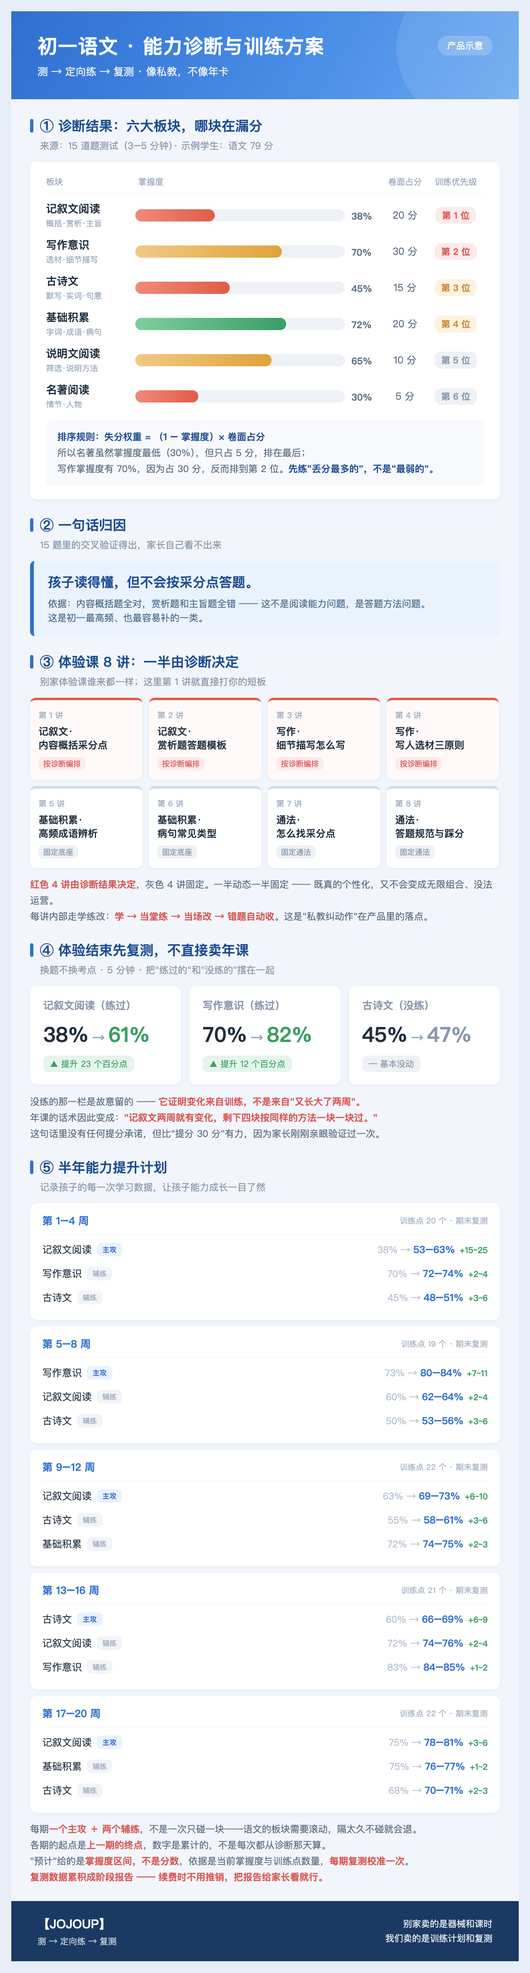
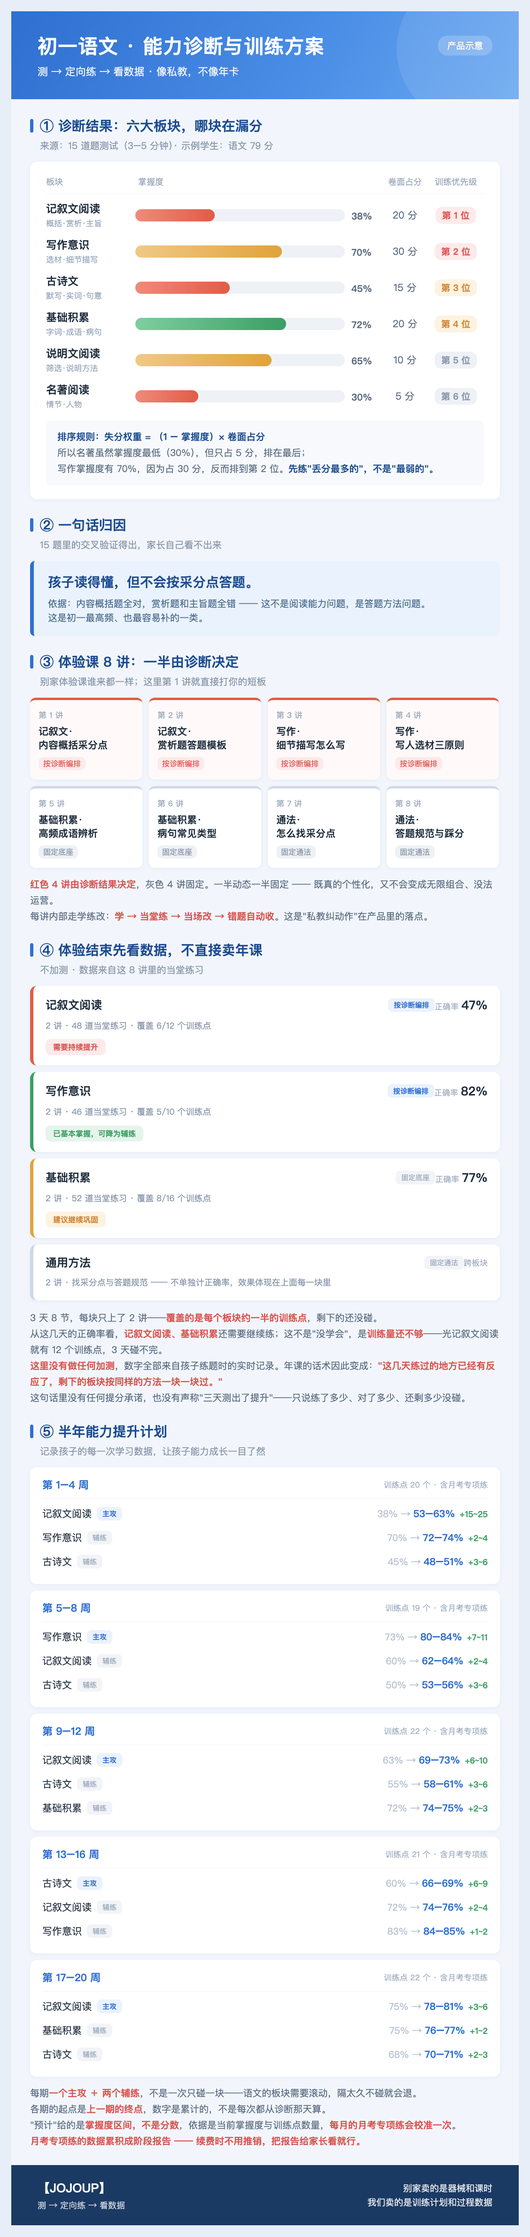
复测口径统一为「月考专项练」
- 明确掌握度来源是产品里本来就有的月考专项练，不额外加测
- 月报学习过程表新增「月考专项练 · 测量点」独立行，综合正确率按卷面占分加权
- 半年计划周期标注改为「含月考专项练」，校准口径同步
- 产品示意图第④节重写为体验小结，补齐上一轮与 H5 的不一致
- 教研落地包新增「测量点：月考专项练，不是额外加测」一节，B卷与40周节点改名
- 跨行业拆解文档更新链路摘要

diff --git a/product.html b/product.html
@@ -49,7 +49,19 @@ body{font-family:"PingFang SC","Hiragino Sans GB","Microsoft YaHei",sans-serif;b
 .legend{margin-top:18px;font-size:20px;color:#5a6b80;line-height:1.7}
 .legend b{color:#d9534f}
 
-/* 复测 */
+/* 对比 */
+.ex{background:#fff;border-radius:14px;padding:22px 26px;margin-bottom:14px;box-shadow:0 2px 10px rgba(30,70,140,.06);border-left:7px solid #cfd8e5}
+.ex.need{border-left-color:#e05c46}.ex.mid{border-left-color:#e0a33a}.ex.good{border-left-color:#3a9e63}
+.ex .eh{display:flex;align-items:center;margin-bottom:11px}
+.ex .eh b{font-size:24px;color:#1f2d3d;flex:1}
+.ex .eh i{font-style:normal;font-size:15px;padding:4px 12px;border-radius:9px;margin-left:12px}
+.i-m{background:#eaf2fd;color:#2f6fd0;font-weight:800}.i-s{background:#f2f4f7;color:#9aa8bc}
+.ex .acc{font-size:17px;color:#a3b0c2;white-space:nowrap}
+.ex .acc b{font-size:26px;font-weight:800;margin-left:6px}
+.a-need{color:#d9534f}.a-mid{color:#d1873a}.a-good{color:#3a9e63}
+.ex .vol{font-size:18px;color:#8a97ab;line-height:1.7}
+.ex .cc{display:inline-block;font-size:16px;padding:6px 16px;border-radius:10px;margin-top:13px;font-weight:800}
+.c-need{background:#fdeaea;color:#d9534f}.c-mid{background:#fdf3e0;color:#d1873a}.c-good{background:#e6f5ec;color:#3a9e63}
 .cmp{display:flex;gap:18px}
 .cmp>div{flex:1;background:#fff;border-radius:14px;padding:26px 28px;box-shadow:0 2px 10px rgba(30,70,140,.06)}
 .cmp h4{font-size:22px;color:#8a97ab;font-weight:600;margin-bottom:16px}
@@ -90,7 +102,7 @@ body{font-family:"PingFang SC","Hiragino Sans GB","Microsoft YaHei",sans-serif;b
 
 <div class="hd"><div class="mark">产品示意</div>
 <h1>初一语文 · 能力诊断与训练方案</h1>
-<p>测 → 定向练 → 复测 · 像私教，不像年卡</p></div>
+<p>测 → 定向练 → 看数据 · 像私教，不像年卡</p></div>
 
 <div class="body">
 
@@ -156,33 +168,27 @@ body{font-family:"PingFang SC","Hiragino Sans GB","Microsoft YaHei",sans-serif;b
 </div>
 
 <div class="sec">
-  <div class="sec-t"><i></i>④ 体验结束先复测，不直接卖年课</div>
-  <div class="sec-s">换题不换考点 · 5 分钟 · 把"练过的"和"没练的"摆在一起</div>
-  <div class="cmp">
-    <div><h4>记叙文阅读（练过）</h4><div class="big">38%<i>→</i><span class="up">61%</span></div><div class="tag t-up">▲ 提升 23 个百分点</div></div>
-    <div><h4>写作意识（练过）</h4><div class="big">70%<i>→</i><span class="up">82%</span></div><div class="tag t-up">▲ 提升 12 个百分点</div></div>
-    <div><h4>古诗文（没练）</h4><div class="big">45%<i>→</i><span class="flat">47%</span></div><div class="tag t-flat">— 基本没动</div></div>
-  </div>
-  <div class="legend" style="margin-top:20px">没练的那一栏是故意留的 —— <b>它证明变化来自训练，不是来自"又长大了两周"。</b><br>
-  年课的话术因此变成：<b>"记叙文两周就有变化，剩下四块按同样的方法一块一块过。"</b><br>
-  这句话里没有任何提分承诺，但比"提分 30 分"有力，因为家长刚刚亲眼验证过一次。</div>
+  <div class="sec-t"><i></i>④ 体验结束先看数据，不直接卖年课</div>
+  <div class="sec-s">不加测 · 数据来自这 8 讲里的当堂练习</div>
+  <div class="ex need"><div class="eh"><b>记叙文阅读</b><i class="i-m">按诊断编排</i><span class="acc">正确率<b class="a-need">47%</b></span></div><div class="vol">2 讲 · 48 道当堂练习 · 覆盖 6/12 个训练点</div><div class="cc c-need">需要持续提升</div></div><div class="ex good"><div class="eh"><b>写作意识</b><i class="i-m">按诊断编排</i><span class="acc">正确率<b class="a-good">82%</b></span></div><div class="vol">2 讲 · 46 道当堂练习 · 覆盖 5/10 个训练点</div><div class="cc c-good">已基本掌握，可降为辅练</div></div><div class="ex mid"><div class="eh"><b>基础积累</b><i class="i-s">固定底座</i><span class="acc">正确率<b class="a-mid">77%</b></span></div><div class="vol">2 讲 · 52 道当堂练习 · 覆盖 8/16 个训练点</div><div class="cc c-mid">建议继续巩固</div></div><div class="ex"><div class="eh"><b>通用方法</b><i class="i-s">固定通法</i><span class="acc">跨板块</span></div><div class="vol">2 讲 · 找采分点与答题规范 —— 不单独计正确率，效果体现在上面每一块里</div></div>
+  <div class="legend" style="margin-top:20px">3 天 8 节，每块只上了 2 讲——<b>覆盖的是每个板块约一半的训练点</b>，剩下的还没碰。<br>从这几天的正确率看，<b>记叙文阅读、基础积累</b>还需要继续练；这不是"没学会"，是<b>训练量还不够</b>——光记叙文阅读就有 12 个训练点，3 天碰不完。<br><b>这里没有做任何加测</b>，数字全部来自孩子练题时的实时记录。年课的话术因此变成：<b>"这几天练过的地方已经有反应了，剩下的板块按同样的方法一块一块过。"</b><br>这句话里没有任何提分承诺，也没有声称"三天测出了提升"——只说练了多少、对了多少、还剩多少没碰。</div>
 </div>
 
 <div class="sec">
   <div class="sec-t"><i></i>⑤ 半年能力提升计划</div>
   <div class="sec-s">记录孩子的每一次学习数据，让孩子能力成长一目了然</div>
-  <div class="per"><div class="ph"><b>第 1–4 周</b><span>训练点 20 个 · 期末复测</span></div><div class="prow"><div class="nm">记叙文阅读<span class="rl rl-m">主攻</span></div><div class="vv">38% → <b>53–63%</b><i>+15~25</i></div></div><div class="prow"><div class="nm">写作意识<span class="rl rl-s">辅练</span></div><div class="vv">70% → <b>72–74%</b><i>+2~4</i></div></div><div class="prow"><div class="nm">古诗文<span class="rl rl-s">辅练</span></div><div class="vv">45% → <b>48–51%</b><i>+3~6</i></div></div></div>
-  <div class="per"><div class="ph"><b>第 5–8 周</b><span>训练点 19 个 · 期末复测</span></div><div class="prow"><div class="nm">写作意识<span class="rl rl-m">主攻</span></div><div class="vv">73% → <b>80–84%</b><i>+7~11</i></div></div><div class="prow"><div class="nm">记叙文阅读<span class="rl rl-s">辅练</span></div><div class="vv">60% → <b>62–64%</b><i>+2~4</i></div></div><div class="prow"><div class="nm">古诗文<span class="rl rl-s">辅练</span></div><div class="vv">50% → <b>53–56%</b><i>+3~6</i></div></div></div>
-  <div class="per"><div class="ph"><b>第 9–12 周</b><span>训练点 22 个 · 期末复测</span></div><div class="prow"><div class="nm">记叙文阅读<span class="rl rl-m">主攻</span></div><div class="vv">63% → <b>69–73%</b><i>+6~10</i></div></div><div class="prow"><div class="nm">古诗文<span class="rl rl-s">辅练</span></div><div class="vv">55% → <b>58–61%</b><i>+3~6</i></div></div><div class="prow"><div class="nm">基础积累<span class="rl rl-s">辅练</span></div><div class="vv">72% → <b>74–75%</b><i>+2~3</i></div></div></div>
-  <div class="per"><div class="ph"><b>第 13–16 周</b><span>训练点 21 个 · 期末复测</span></div><div class="prow"><div class="nm">古诗文<span class="rl rl-m">主攻</span></div><div class="vv">60% → <b>66–69%</b><i>+6~9</i></div></div><div class="prow"><div class="nm">记叙文阅读<span class="rl rl-s">辅练</span></div><div class="vv">72% → <b>74–76%</b><i>+2~4</i></div></div><div class="prow"><div class="nm">写作意识<span class="rl rl-s">辅练</span></div><div class="vv">83% → <b>84–85%</b><i>+1~2</i></div></div></div>
-  <div class="per"><div class="ph"><b>第 17–20 周</b><span>训练点 22 个 · 期末复测</span></div><div class="prow"><div class="nm">记叙文阅读<span class="rl rl-m">主攻</span></div><div class="vv">75% → <b>78–81%</b><i>+3~6</i></div></div><div class="prow"><div class="nm">基础积累<span class="rl rl-s">辅练</span></div><div class="vv">75% → <b>76–77%</b><i>+1~2</i></div></div><div class="prow"><div class="nm">古诗文<span class="rl rl-s">辅练</span></div><div class="vv">68% → <b>70–71%</b><i>+2~3</i></div></div></div>
-  <div class="legend" style="margin-top:18px">每期<b>一个主攻 ＋ 两个辅练</b>，不是一次只碰一块——语文的板块需要滚动，隔太久不碰就会退。<br>各期的起点是<b>上一期的终点</b>，数字是累计的，不是每次都从诊断那天算。<br>"预计"给的是<b>掌握度区间，不是分数</b>，依据是当前掌握度与训练点数量，<b>每期复测校准一次</b>。<br>
-  <b>复测数据累积成阶段报告 —— 续费时不用推销，把报告给家长看就行。</b></div>
+  <div class="per"><div class="ph"><b>第 1–4 周</b><span>训练点 20 个 · 含月考专项练</span></div><div class="prow"><div class="nm">记叙文阅读<span class="rl rl-m">主攻</span></div><div class="vv">38% → <b>53–63%</b><i>+15~25</i></div></div><div class="prow"><div class="nm">写作意识<span class="rl rl-s">辅练</span></div><div class="vv">70% → <b>72–74%</b><i>+2~4</i></div></div><div class="prow"><div class="nm">古诗文<span class="rl rl-s">辅练</span></div><div class="vv">45% → <b>48–51%</b><i>+3~6</i></div></div></div>
+  <div class="per"><div class="ph"><b>第 5–8 周</b><span>训练点 19 个 · 含月考专项练</span></div><div class="prow"><div class="nm">写作意识<span class="rl rl-m">主攻</span></div><div class="vv">73% → <b>80–84%</b><i>+7~11</i></div></div><div class="prow"><div class="nm">记叙文阅读<span class="rl rl-s">辅练</span></div><div class="vv">60% → <b>62–64%</b><i>+2~4</i></div></div><div class="prow"><div class="nm">古诗文<span class="rl rl-s">辅练</span></div><div class="vv">50% → <b>53–56%</b><i>+3~6</i></div></div></div>
+  <div class="per"><div class="ph"><b>第 9–12 周</b><span>训练点 22 个 · 含月考专项练</span></div><div class="prow"><div class="nm">记叙文阅读<span class="rl rl-m">主攻</span></div><div class="vv">63% → <b>69–73%</b><i>+6~10</i></div></div><div class="prow"><div class="nm">古诗文<span class="rl rl-s">辅练</span></div><div class="vv">55% → <b>58–61%</b><i>+3~6</i></div></div><div class="prow"><div class="nm">基础积累<span class="rl rl-s">辅练</span></div><div class="vv">72% → <b>74–75%</b><i>+2~3</i></div></div></div>
+  <div class="per"><div class="ph"><b>第 13–16 周</b><span>训练点 21 个 · 含月考专项练</span></div><div class="prow"><div class="nm">古诗文<span class="rl rl-m">主攻</span></div><div class="vv">60% → <b>66–69%</b><i>+6~9</i></div></div><div class="prow"><div class="nm">记叙文阅读<span class="rl rl-s">辅练</span></div><div class="vv">72% → <b>74–76%</b><i>+2~4</i></div></div><div class="prow"><div class="nm">写作意识<span class="rl rl-s">辅练</span></div><div class="vv">83% → <b>84–85%</b><i>+1~2</i></div></div></div>
+  <div class="per"><div class="ph"><b>第 17–20 周</b><span>训练点 22 个 · 含月考专项练</span></div><div class="prow"><div class="nm">记叙文阅读<span class="rl rl-m">主攻</span></div><div class="vv">75% → <b>78–81%</b><i>+3~6</i></div></div><div class="prow"><div class="nm">基础积累<span class="rl rl-s">辅练</span></div><div class="vv">75% → <b>76–77%</b><i>+1~2</i></div></div><div class="prow"><div class="nm">古诗文<span class="rl rl-s">辅练</span></div><div class="vv">68% → <b>70–71%</b><i>+2~3</i></div></div></div>
+  <div class="legend" style="margin-top:18px">每期<b>一个主攻 ＋ 两个辅练</b>，不是一次只碰一块——语文的板块需要滚动，隔太久不碰就会退。<br>各期的起点是<b>上一期的终点</b>，数字是累计的，不是每次都从诊断那天算。<br>"预计"给的是<b>掌握度区间，不是分数</b>，依据是当前掌握度与训练点数量，<b>每月的月考专项练会校准一次</b>。<br>
+  <b>月考专项练的数据累积成阶段报告 —— 续费时不用推销，把报告给家长看就行。</b></div>
 </div>
 
 </div>
 
-<div class="ft"><div><b>【JOJOUP】</b><p>测 → 定向练 → 复测</p></div>
-<div class="r">别家卖的是器械和课时<br>我们卖的是训练计划和复测</div></div>
+<div class="ft"><div><b>【JOJOUP】</b><p>测 → 定向练 → 看数据</p></div>
+<div class="r">别家卖的是器械和课时<br>我们卖的是训练计划和过程数据</div></div>
 
 </div></body></html>

diff --git a/产品示意_初一语文.html b/产品示意_初一语文.html
@@ -49,7 +49,19 @@ body{font-family:"PingFang SC","Hiragino Sans GB","Microsoft YaHei",sans-serif;b
 .legend{margin-top:18px;font-size:20px;color:#5a6b80;line-height:1.7}
 .legend b{color:#d9534f}
 
-/* 复测 */
+/* 对比 */
+.ex{background:#fff;border-radius:14px;padding:22px 26px;margin-bottom:14px;box-shadow:0 2px 10px rgba(30,70,140,.06);border-left:7px solid #cfd8e5}
+.ex.need{border-left-color:#e05c46}.ex.mid{border-left-color:#e0a33a}.ex.good{border-left-color:#3a9e63}
+.ex .eh{display:flex;align-items:center;margin-bottom:11px}
+.ex .eh b{font-size:24px;color:#1f2d3d;flex:1}
+.ex .eh i{font-style:normal;font-size:15px;padding:4px 12px;border-radius:9px;margin-left:12px}
+.i-m{background:#eaf2fd;color:#2f6fd0;font-weight:800}.i-s{background:#f2f4f7;color:#9aa8bc}
+.ex .acc{font-size:17px;color:#a3b0c2;white-space:nowrap}
+.ex .acc b{font-size:26px;font-weight:800;margin-left:6px}
+.a-need{color:#d9534f}.a-mid{color:#d1873a}.a-good{color:#3a9e63}
+.ex .vol{font-size:18px;color:#8a97ab;line-height:1.7}
+.ex .cc{display:inline-block;font-size:16px;padding:6px 16px;border-radius:10px;margin-top:13px;font-weight:800}
+.c-need{background:#fdeaea;color:#d9534f}.c-mid{background:#fdf3e0;color:#d1873a}.c-good{background:#e6f5ec;color:#3a9e63}
 .cmp{display:flex;gap:18px}
 .cmp>div{flex:1;background:#fff;border-radius:14px;padding:26px 28px;box-shadow:0 2px 10px rgba(30,70,140,.06)}
 .cmp h4{font-size:22px;color:#8a97ab;font-weight:600;margin-bottom:16px}
@@ -90,7 +102,7 @@ body{font-family:"PingFang SC","Hiragino Sans GB","Microsoft YaHei",sans-serif;b
 
 <div class="hd"><div class="mark">产品示意</div>
 <h1>初一语文 · 能力诊断与训练方案</h1>
-<p>测 → 定向练 → 复测 · 像私教，不像年卡</p></div>
+<p>测 → 定向练 → 看数据 · 像私教，不像年卡</p></div>
 
 <div class="body">
 
@@ -156,33 +168,27 @@ body{font-family:"PingFang SC","Hiragino Sans GB","Microsoft YaHei",sans-serif;b
 </div>
 
 <div class="sec">
-  <div class="sec-t"><i></i>④ 体验结束先复测，不直接卖年课</div>
-  <div class="sec-s">换题不换考点 · 5 分钟 · 把"练过的"和"没练的"摆在一起</div>
-  <div class="cmp">
-    <div><h4>记叙文阅读（练过）</h4><div class="big">38%<i>→</i><span class="up">61%</span></div><div class="tag t-up">▲ 提升 23 个百分点</div></div>
-    <div><h4>写作意识（练过）</h4><div class="big">70%<i>→</i><span class="up">82%</span></div><div class="tag t-up">▲ 提升 12 个百分点</div></div>
-    <div><h4>古诗文（没练）</h4><div class="big">45%<i>→</i><span class="flat">47%</span></div><div class="tag t-flat">— 基本没动</div></div>
-  </div>
-  <div class="legend" style="margin-top:20px">没练的那一栏是故意留的 —— <b>它证明变化来自训练，不是来自"又长大了两周"。</b><br>
-  年课的话术因此变成：<b>"记叙文两周就有变化，剩下四块按同样的方法一块一块过。"</b><br>
-  这句话里没有任何提分承诺，但比"提分 30 分"有力，因为家长刚刚亲眼验证过一次。</div>
+  <div class="sec-t"><i></i>④ 体验结束先看数据，不直接卖年课</div>
+  <div class="sec-s">不加测 · 数据来自这 8 讲里的当堂练习</div>
+  <div class="ex need"><div class="eh"><b>记叙文阅读</b><i class="i-m">按诊断编排</i><span class="acc">正确率<b class="a-need">47%</b></span></div><div class="vol">2 讲 · 48 道当堂练习 · 覆盖 6/12 个训练点</div><div class="cc c-need">需要持续提升</div></div><div class="ex good"><div class="eh"><b>写作意识</b><i class="i-m">按诊断编排</i><span class="acc">正确率<b class="a-good">82%</b></span></div><div class="vol">2 讲 · 46 道当堂练习 · 覆盖 5/10 个训练点</div><div class="cc c-good">已基本掌握，可降为辅练</div></div><div class="ex mid"><div class="eh"><b>基础积累</b><i class="i-s">固定底座</i><span class="acc">正确率<b class="a-mid">77%</b></span></div><div class="vol">2 讲 · 52 道当堂练习 · 覆盖 8/16 个训练点</div><div class="cc c-mid">建议继续巩固</div></div><div class="ex"><div class="eh"><b>通用方法</b><i class="i-s">固定通法</i><span class="acc">跨板块</span></div><div class="vol">2 讲 · 找采分点与答题规范 —— 不单独计正确率，效果体现在上面每一块里</div></div>
+  <div class="legend" style="margin-top:20px">3 天 8 节，每块只上了 2 讲——<b>覆盖的是每个板块约一半的训练点</b>，剩下的还没碰。<br>从这几天的正确率看，<b>记叙文阅读、基础积累</b>还需要继续练；这不是"没学会"，是<b>训练量还不够</b>——光记叙文阅读就有 12 个训练点，3 天碰不完。<br><b>这里没有做任何加测</b>，数字全部来自孩子练题时的实时记录。年课的话术因此变成：<b>"这几天练过的地方已经有反应了，剩下的板块按同样的方法一块一块过。"</b><br>这句话里没有任何提分承诺，也没有声称"三天测出了提升"——只说练了多少、对了多少、还剩多少没碰。</div>
 </div>
 
 <div class="sec">
   <div class="sec-t"><i></i>⑤ 半年能力提升计划</div>
   <div class="sec-s">记录孩子的每一次学习数据，让孩子能力成长一目了然</div>
-  <div class="per"><div class="ph"><b>第 1–4 周</b><span>训练点 20 个 · 期末复测</span></div><div class="prow"><div class="nm">记叙文阅读<span class="rl rl-m">主攻</span></div><div class="vv">38% → <b>53–63%</b><i>+15~25</i></div></div><div class="prow"><div class="nm">写作意识<span class="rl rl-s">辅练</span></div><div class="vv">70% → <b>72–74%</b><i>+2~4</i></div></div><div class="prow"><div class="nm">古诗文<span class="rl rl-s">辅练</span></div><div class="vv">45% → <b>48–51%</b><i>+3~6</i></div></div></div>
-  <div class="per"><div class="ph"><b>第 5–8 周</b><span>训练点 19 个 · 期末复测</span></div><div class="prow"><div class="nm">写作意识<span class="rl rl-m">主攻</span></div><div class="vv">73% → <b>80–84%</b><i>+7~11</i></div></div><div class="prow"><div class="nm">记叙文阅读<span class="rl rl-s">辅练</span></div><div class="vv">60% → <b>62–64%</b><i>+2~4</i></div></div><div class="prow"><div class="nm">古诗文<span class="rl rl-s">辅练</span></div><div class="vv">50% → <b>53–56%</b><i>+3~6</i></div></div></div>
-  <div class="per"><div class="ph"><b>第 9–12 周</b><span>训练点 22 个 · 期末复测</span></div><div class="prow"><div class="nm">记叙文阅读<span class="rl rl-m">主攻</span></div><div class="vv">63% → <b>69–73%</b><i>+6~10</i></div></div><div class="prow"><div class="nm">古诗文<span class="rl rl-s">辅练</span></div><div class="vv">55% → <b>58–61%</b><i>+3~6</i></div></div><div class="prow"><div class="nm">基础积累<span class="rl rl-s">辅练</span></div><div class="vv">72% → <b>74–75%</b><i>+2~3</i></div></div></div>
-  <div class="per"><div class="ph"><b>第 13–16 周</b><span>训练点 21 个 · 期末复测</span></div><div class="prow"><div class="nm">古诗文<span class="rl rl-m">主攻</span></div><div class="vv">60% → <b>66–69%</b><i>+6~9</i></div></div><div class="prow"><div class="nm">记叙文阅读<span class="rl rl-s">辅练</span></div><div class="vv">72% → <b>74–76%</b><i>+2~4</i></div></div><div class="prow"><div class="nm">写作意识<span class="rl rl-s">辅练</span></div><div class="vv">83% → <b>84–85%</b><i>+1~2</i></div></div></div>
-  <div class="per"><div class="ph"><b>第 17–20 周</b><span>训练点 22 个 · 期末复测</span></div><div class="prow"><div class="nm">记叙文阅读<span class="rl rl-m">主攻</span></div><div class="vv">75% → <b>78–81%</b><i>+3~6</i></div></div><div class="prow"><div class="nm">基础积累<span class="rl rl-s">辅练</span></div><div class="vv">75% → <b>76–77%</b><i>+1~2</i></div></div><div class="prow"><div class="nm">古诗文<span class="rl rl-s">辅练</span></div><div class="vv">68% → <b>70–71%</b><i>+2~3</i></div></div></div>
-  <div class="legend" style="margin-top:18px">每期<b>一个主攻 ＋ 两个辅练</b>，不是一次只碰一块——语文的板块需要滚动，隔太久不碰就会退。<br>各期的起点是<b>上一期的终点</b>，数字是累计的，不是每次都从诊断那天算。<br>"预计"给的是<b>掌握度区间，不是分数</b>，依据是当前掌握度与训练点数量，<b>每期复测校准一次</b>。<br>
-  <b>复测数据累积成阶段报告 —— 续费时不用推销，把报告给家长看就行。</b></div>
+  <div class="per"><div class="ph"><b>第 1–4 周</b><span>训练点 20 个 · 含月考专项练</span></div><div class="prow"><div class="nm">记叙文阅读<span class="rl rl-m">主攻</span></div><div class="vv">38% → <b>53–63%</b><i>+15~25</i></div></div><div class="prow"><div class="nm">写作意识<span class="rl rl-s">辅练</span></div><div class="vv">70% → <b>72–74%</b><i>+2~4</i></div></div><div class="prow"><div class="nm">古诗文<span class="rl rl-s">辅练</span></div><div class="vv">45% → <b>48–51%</b><i>+3~6</i></div></div></div>
+  <div class="per"><div class="ph"><b>第 5–8 周</b><span>训练点 19 个 · 含月考专项练</span></div><div class="prow"><div class="nm">写作意识<span class="rl rl-m">主攻</span></div><div class="vv">73% → <b>80–84%</b><i>+7~11</i></div></div><div class="prow"><div class="nm">记叙文阅读<span class="rl rl-s">辅练</span></div><div class="vv">60% → <b>62–64%</b><i>+2~4</i></div></div><div class="prow"><div class="nm">古诗文<span class="rl rl-s">辅练</span></div><div class="vv">50% → <b>53–56%</b><i>+3~6</i></div></div></div>
+  <div class="per"><div class="ph"><b>第 9–12 周</b><span>训练点 22 个 · 含月考专项练</span></div><div class="prow"><div class="nm">记叙文阅读<span class="rl rl-m">主攻</span></div><div class="vv">63% → <b>69–73%</b><i>+6~10</i></div></div><div class="prow"><div class="nm">古诗文<span class="rl rl-s">辅练</span></div><div class="vv">55% → <b>58–61%</b><i>+3~6</i></div></div><div class="prow"><div class="nm">基础积累<span class="rl rl-s">辅练</span></div><div class="vv">72% → <b>74–75%</b><i>+2~3</i></div></div></div>
+  <div class="per"><div class="ph"><b>第 13–16 周</b><span>训练点 21 个 · 含月考专项练</span></div><div class="prow"><div class="nm">古诗文<span class="rl rl-m">主攻</span></div><div class="vv">60% → <b>66–69%</b><i>+6~9</i></div></div><div class="prow"><div class="nm">记叙文阅读<span class="rl rl-s">辅练</span></div><div class="vv">72% → <b>74–76%</b><i>+2~4</i></div></div><div class="prow"><div class="nm">写作意识<span class="rl rl-s">辅练</span></div><div class="vv">83% → <b>84–85%</b><i>+1~2</i></div></div></div>
+  <div class="per"><div class="ph"><b>第 17–20 周</b><span>训练点 22 个 · 含月考专项练</span></div><div class="prow"><div class="nm">记叙文阅读<span class="rl rl-m">主攻</span></div><div class="vv">75% → <b>78–81%</b><i>+3~6</i></div></div><div class="prow"><div class="nm">基础积累<span class="rl rl-s">辅练</span></div><div class="vv">75% → <b>76–77%</b><i>+1~2</i></div></div><div class="prow"><div class="nm">古诗文<span class="rl rl-s">辅练</span></div><div class="vv">68% → <b>70–71%</b><i>+2~3</i></div></div></div>
+  <div class="legend" style="margin-top:18px">每期<b>一个主攻 ＋ 两个辅练</b>，不是一次只碰一块——语文的板块需要滚动，隔太久不碰就会退。<br>各期的起点是<b>上一期的终点</b>，数字是累计的，不是每次都从诊断那天算。<br>"预计"给的是<b>掌握度区间，不是分数</b>，依据是当前掌握度与训练点数量，<b>每月的月考专项练会校准一次</b>。<br>
+  <b>月考专项练的数据累积成阶段报告 —— 续费时不用推销，把报告给家长看就行。</b></div>
 </div>
 
 </div>
 
-<div class="ft"><div><b>【JOJOUP】</b><p>测 → 定向练 → 复测</p></div>
-<div class="r">别家卖的是器械和课时<br>我们卖的是训练计划和复测</div></div>
+<div class="ft"><div><b>【JOJOUP】</b><p>测 → 定向练 → 看数据</p></div>
+<div class="r">别家卖的是器械和课时<br>我们卖的是训练计划和过程数据</div></div>
 
 </div></body></html>

diff --git a/h5.html b/h5.html
@@ -245,6 +245,9 @@ body{font-family:"PingFang SC","Hiragino Sans GB","Microsoft YaHei",sans-serif;b
 .ptr span{font-size:11.5px;color:#5a6b80;text-align:center;flex-shrink:0}
 .ptr span.al{color:#d9534f;font-weight:800}
 .ptr span.ok{color:#3a9e63;font-weight:700}
+.ptr.exm{border-bottom:0;background:#f4f9ff;margin-top:6px;border-radius:9px;padding:10px 8px}
+.ptr.exm .c1{font-weight:800;color:#1b4b8f;padding-left:6px}
+.c1 i.i-e{background:#e6f5ec;color:#3a9e63;font-weight:800}
 .ptr.off .c1{color:#b3bfd0}
 .ptr.off span{color:#cbd5e2}
 .grid{display:flex;flex-wrap:wrap;gap:8px}
@@ -399,7 +402,7 @@ body{font-family:"PingFang SC","Hiragino Sans GB","Microsoft YaHei",sans-serif;b
 
     <div class="rcard"><div class="rt"><s></s>半年能力提升计划</div><div class="rs">记录孩子的每一次学习数据，让孩子能力成长一目了然</div>
       <div id="wkbox"></div>
-      <div class="frm">进入年课后，每个周期有终点、有阶段测。<b>什么时候能看到反馈是写明的</b>，不是"买了慢慢学"。<br>（体验的这 3 天<b>不加测</b>，数据直接取自当堂练习）</div>
+      <div class="frm">进入年课后，每个月产品里本来就有<b>一次月考专项练</b>——掌握度就从那次的作答里读出来，<b>不额外加测、不多占时间</b>。<br>什么时候能看到反馈是写明的，不是"买了慢慢学"。（体验的这 3 天同样不加测，数据取自当堂练习）</div>
     </div>
 
     <div class="key"><b>"记叙文三天就有变化，剩下几块按同样的方法一块一块过。"</b>
@@ -605,7 +608,7 @@ function plan(){
   document.getElementById('planc').innerHTML=h;
   document.getElementById('s6sub').textContent='主攻：'+res.arr[0].n+' ＋ '+res.arr[1].n;
   /* 体验小结与年课 */
-  /* 体验小结：只用这 8 讲真实练出来的量和正确率，不做复测 */
+  /* 体验小结：只用这 8 讲真实练出来的量和正确率，不加测 */
   var seen={},order=[];
   L.forEach(function(x){if(x.k){if(!seen[x.k]){seen[x.k]={n:B[x.k].n,k:x.k,ls:0,dy:x.dy};order.push(x.k);}seen[x.k].ls++;}});
   var ex=order.map(function(k){
@@ -650,7 +653,7 @@ function plan(){
         (hi>from?'<i>+'+(lo-from)+'~'+(hi-from)+'</i>':'')+'</div></div>';
       st[b.k]=bump(from,g);
     });
-    w+='<div class="per"><div class="ph"><b>'+wk[i]+'</b><span>训练点 '+pts+' 个 · 期末复测</span></div>'+body+'</div>';
+    w+='<div class="per"><div class="ph"><b>'+wk[i]+'</b><span>训练点 '+pts+' 个 · 含月考专项练</span></div>'+body+'</div>';
   }
   var hold=res.arr.filter(function(x){return x.m>=90});
   if(hold.length)w+='<div class="frm" style="margin-top:2px">'+hold.map(function(x){return x.n}).join('、')+
@@ -658,7 +661,7 @@ function plan(){
   w+='<div class="frm" style="margin-top:2px">每期<b>一个主攻 ＋ 两个辅练</b>，不是一次只碰一块——'+
      '语文的板块需要滚动，隔太久不碰就会退。<br>'+
      '各期的起点是<b>上一期的终点</b>，所以数字是累计的，不是每次都从诊断那天算。<br>'+
-     '"预计"给的是<b>掌握度区间，不是分数</b>，依据是当前掌握度与训练点数量，<b>每期复测校准一次</b>。</div>';
+     '"预计"给的是<b>掌握度区间，不是分数</b>，依据是当前掌握度与训练点数量，<b>每月的月考专项练会校准一次</b>。</div>';
   document.getElementById('wkbox').innerHTML=w;
   MONTHS=buildMonths();showMonth(0);
   go('s6');
@@ -711,6 +714,9 @@ function buildMonths(){
     rows.slice().sort(function(x,y){return (y.raw-Math.floor(y.raw))-(x.raw-Math.floor(x.raw));})
         .forEach(function(r){if(rem>0&&r.fx<r.wr){r.fx++;rem--;}});
     rows.forEach(function(r){r.rate=r.wr?Math.round(r.fx/r.wr*100):0;});
+    /* 月考专项练：产品里本来就有的一讲，同时充当当月掌握度的测量点 */
+    var tw=0,ts=0;for(var k in B){tw+=B[k].w;ts+=st[k]*B[k].w;}
+    d.exam={ls:1,q:30,acc:Math.round(ts/tw)};
     d.rows=rows;
     d.plan=rows.reduce(function(a,r){return a+r.plan},0);
     d.done=rows.reduce(function(a,r){return a+r.done},0);
@@ -769,7 +775,7 @@ function showMonth(k){
      '<p>主攻 1 块 ＋ 辅练 '+M.subs.map(function(x){return B[x].n}).join('、')+
      '<br>按上月的失分权重排出来的，不是按教材顺序。本月覆盖 <b>'+pts+' 个训练点</b>。</p></div>';
   /* 能力变化 */
-  h+='<div class="rcard"><div class="rt"><s></s>六大板块，这个月动了多少</div><div class="rs">上月 → 本月 · 复测实得，不是估算</div>';
+  h+='<div class="rcard"><div class="rt"><s></s>六大板块，这个月动了多少</div><div class="rs">上月 → 本月 · 月考专项练实测，不是估算</div>';
   rank(M.after).forEach(function(b){
     var a=M.before[b.k],c=M.after[b.k],dt=c-a;
     var cls=dt>0?'d-up':(dt<0?'d-dn':'d-fl');
@@ -795,10 +801,16 @@ function showMonth(k){
        '<span class="c2'+(r.done<r.plan?' al':'')+'">'+r.done+'/'+r.plan+' 讲</span>'+
        '<span class="c3">'+r.q+'</span><span class="c4">'+r.wr+'</span>'+
        '<span class="c5'+(r.rate<70?' al':(r.rate>=85?' ok':''))+'">'+r.rate+'%</span></div>';});
-  h+='<div class="ptr sum"><div class="c1">合计</div>'+
+  h+='<div class="ptr sum"><div class="c1">板块训练 合计</div>'+
      '<span class="c2'+(d.done<d.plan?' al':'')+'">'+d.done+'/'+d.plan+' 讲</span>'+
      '<span class="c3">'+d.q+'</span><span class="c4">'+d.wr+'</span>'+
-     '<span class="c5'+(d.rate<70?' al':'')+'">'+d.rate+'%</span></div></div>'+
+     '<span class="c5'+(d.rate<70?' al':'')+'">'+d.rate+'%</span></div>'+
+     '<div class="ptr exm"><div class="c1">月考专项练<i class="i-e">测量点</i></div>'+
+     '<span class="c2">'+d.exam.ls+'/1 讲</span><span class="c3">'+d.exam.q+'</span>'+
+     '<span class="c4">—</span><span class="c5 '+(d.exam.acc<60?'al':d.exam.acc>=80?'ok':'')+'">'+d.exam.acc+'%</span></div></div>'+
+     '<div class="frm" style="margin-top:10px">最后一行是<b>产品里本来就有的月考专项练</b>——'+
+     '上面"六大板块这个月动了多少"的掌握度，就是从这一讲的作答里读出来的。<br>'+
+     '<b>不是额外加的测试</b>，孩子照常上完这一讲，数据就有了。</div>'+
      '<div class="frm" style="margin-top:10px">标"未安排"的板块本月没有排课——'+
      '<b>这几块的掌握度会小幅回落</b>，属于正常现象，会在后面的周期轮到。</div>'+
      '<div class="grid" style="margin-top:12px">'+
@@ -812,7 +824,7 @@ function showMonth(k){
   h+='<div class="rt" style="margin:18px 0 3px"><s></s>下个月的重点</div>'+
      '<div class="rs">全部从上面的数据推出来，每条都能对上</div>';
   M.recs.forEach(function(r){h+='<div class="rec"><b>→ '+r.t+'</b><p>'+r.d+'</p></div>';});
-  h+='<div class="tip">掌握度是<b>复测测出来的</b>，不是老师估的<br>全程没有一个提分承诺，但每一栏你都能自己核对</div>';
+  h+='<div class="tip">掌握度是孩子在<b>月考专项练里做出来的</b>，不是老师估的<br>全程没有一个提分承诺，但每一栏你都能自己核对</div>';
   document.getElementById('mc').innerHTML=h;
   var ph=document.getElementById('phone');if(ph)ph.scrollTop=0;window.scrollTo(0,0);
 }

diff --git a/教研落地包_初一语文.md b/教研落地包_初一语文.md
@@ -116,9 +116,10 @@
 ### A 卷（已内置于 H5，用于初测）
 见 `h5.html` 中 `Q` 数组，15 题全文含两段阅读材料。
 
-### B 卷（复测用 · 换题不换考点）
+### B 卷（月考专项练用 · 换题不换考点）
 
-> 与 A 卷考点逐题对应，难度对齐。体验课结束后 5 分钟复测即用此卷。
+> 与 A 卷考点逐题对应，难度对齐。**体验课结束不再加测**（改为直接用 8 讲的当堂练习数据）；
+> 此卷用于**年课每月的月考专项练**。
 
 **1**（字形）下列词语中没有错别字的一项
 A. 斑点　花团锦簇　B. 班点　花团锦簇　C. 斑点　花团紧簇　D. 班点　花团紧簇　→ **A**
@@ -194,7 +195,7 @@ B. 他心里着急极了。
 C. 他一遍遍看表，鞋尖在地上磨出了一小片印子。
 D. 他着急地站着。　→ **C**
 
-> **C 卷（备用/月度复测）尚未出**——建议按同一规格表再出一套，共 3 套平行卷即可支撑"初测—复测—月测"全年循环。
+> **C 卷（备用/月度轮换）尚未出**——建议按同一规格表再出一套，共 3 套平行卷即可支撑"初测—月考专项练"的全年轮换。
 
 ---
 
@@ -246,7 +247,7 @@ D. 他着急地站着。　→ **C**
 ## 三之二、训练点拆解（周期表与预计提升的依据）
 
 > H5 周期表里"训练点 N 个"和"预计掌握度区间"就取自这张表。
-> **训练点 = 该板块拆出来的、可单独训练与复测的考点。**
+> **训练点 = 该板块拆出来的、可单独训练与检测的考点。**
 
 | 板块 | 训练点数 | 拆解依据 | 一个 4 周周期能否覆盖完 |
 |---|---|---|---|
@@ -272,7 +273,7 @@ D. 他着急地站着。　→ **C**
 **三条口径纪律：**
 1. 给的是**掌握度区间，不是分数**，也不是点值
 2. 依据是**当前掌握度 + 训练点数量**，可以向家长解释清楚，不是拍脑袋
-3. **每个周期复测校准一次**——预计只是起点，实测才算数
+3. **每月的月考专项练校准一次**——预计只是起点，实测才算数
 
 > H5 里月度报告的实际增长用的是**同一个函数**，所以每月实测值都会落在上个周期给出的预计区间内。
 > 这不是巧合，是刻意做的一致性：**预期和反馈必须对得上，否则月报就成了自打脸。**
@@ -296,23 +297,43 @@ D. 他着急地站着。　→ **C**
 
 | 周次 | 板块 | 内容 | 节点 |
 |---|---|---|---|
-| 1–4 | 记叙文 | R1–R4 展开，每讲配 20–25 题 | 期末复测 |
-| 5–8 | 写作 | W1–W4 ＋ 每周一篇片段训练 | 期末复测 |
-| 9–12 | 古诗文 | G1–G4 ＋ 七上全部篇目过一轮 | 期末复测 |
-| 13–16 | 基础积累 | J1–J4 ＋ 字词专项 | 期末复测 |
-| 17–20 | 说明文＋名著 | S1–S4 ＋ M1–M2 | 期末复测 |
+| 1–4 | 记叙文 | R1–R4 展开，每讲配 20–25 题 | 月考专项练 |
+| 5–8 | 写作 | W1–W4 ＋ 每周一篇片段训练 | 月考专项练 |
+| 9–12 | 古诗文 | G1–G4 ＋ 七上全部篇目过一轮 | 月考专项练 |
+| 13–16 | 基础积累 | J1–J4 ＋ 字词专项 | 月考专项练 |
+| 17–20 | 说明文＋名著 | S1–S4 ＋ M1–M2 | 月考专项练 |
 
 ### 下学期 20 周 · 二轮进阶（螺旋上升）
 | 周次 | 板块 | 内容 | 节点 |
 |---|---|---|---|
-| 21–24 | 记叙文进阶 | 标题含义、环境描写、双线结构 | 复测 |
-| 25–28 | 写作进阶 | 完整成篇、升格训练 | 复测 |
-| 29–32 | 古诗文 | 七下篇目 ＋ 课外文言起步 | 复测 |
-| 33–36 | 说明文＋议论文起步 | S1–S4 复盘 ＋ 议论文入门 | 复测 |
+| 21–24 | 记叙文进阶 | 标题含义、环境描写、双线结构 | 月考专项练 |
+| 25–28 | 写作进阶 | 完整成篇、升格训练 | 月考专项练 |
+| 29–32 | 古诗文 | 七下篇目 ＋ 课外文言起步 | 月考专项练 |
+| 33–36 | 说明文＋议论文起步 | S1–S4 复盘 ＋ 议论文入门 | 月考专项练 |
 | 37–40 | 名著＋期末冲刺 | M3–M4 ＋ 全板块查漏 | 期末总测 |
 
-> 每周期末复测的数据，直接进月度报告（见 `h5.html` 第 4 屏），
+> 每月月考专项练的数据，直接进月度报告（见 `h5.html` 第 4 屏），
 > **累积成阶段报告——续费时不用推销，把报告给家长看就行。**
+
+### 测量点：月考专项练，不是额外加测
+
+**掌握度不靠单独的测试取得，靠的是产品里本来就有的那一讲。**
+
+| 阶段 | 有没有测 | 掌握度/结论从哪来 |
+|---|---|---|
+| 体验课 3 天 8 节 | **不加测** | 8 讲的**当堂练习**正确率 |
+| 年课，每月 | **不加测** | 每月一次**月考专项练**的作答 |
+
+> 月考专项练本来就是学生要上的一讲（对着当月月考的考点做专项训练），
+> 它顺带成为当月的测量点——**孩子照常上完，数据就有了**。
+
+**为什么这件事值钱：**
+1. 对孩子：不多占时间，不会有"又要考试了"的抵触
+2. 对家长：月报里每个数字都能追溯到一次真实作答，不是老师估的
+3. 对销售：可以正面回答"是不是又要考试"——**不是考试，是本来就有的一讲**
+
+> 综合正确率的算法：按卷面占分加权六大板块掌握度。
+> 月报里「月考专项练」那一行显示的就是它，与上方各板块掌握度同源。
 
 ---
 
@@ -335,11 +356,11 @@ D. 他着急地站着。　→ **C**
 | 事项 | 产出 | 估算 | 优先级 |
 |---|---|---|---|
 | 诊断卷 A（含 2 段材料） | 15 题 | ✅ 已完成，见 `h5.html` | — |
-| 诊断卷 B（复测） | 15 题 | ✅ 已完成，见本文第二节 | — |
+| 诊断卷 B（月考专项练） | 15 题 | ✅ 已完成，见本文第二节 | — |
 | 诊断卷 C（备用/月测） | 15 题 | 1 人天 | **高** |
 | 24 讲内容开发 | 讲义＋每讲 20–25 题 | **最大头**；多数可从现有内容重新打标 | **高** |
 | 归因文案库 | 4 类画像 × 文案 | ✅ 已内置于 H5 | — |
-| 年课 40 周排布 | 周计划＋复测节点 | 2–3 人天 | 中 |
+| 年课 40 周排布 | 周计划＋月考专项练节点 | 2–3 人天 | 中 |
 | 错题标签体系 | 板块→考点→题型三级 | 2 人天 | 中（决定月报数据质量） |
 
 ### 月报所需的过程数据（分板块记录）

diff --git a/跨行业测评产品拆解.md b/跨行业测评产品拆解.md
@@ -1,7 +1,7 @@
 # 跨行业测评产品拆解：12 个可以直接抄的样板
 
 > 每个案例只回答三件事：**它怎么设计的 / 真正的机关在哪 / 我们哪一步能直接抄。**
-> 对照的是我们自己的链路：`L1 分数 → L2 15题 → 报告 → 体验课 → 复测 → 周期表`。
+> 对照的是我们自己的链路：`L1 分数 → L2 15题 → 报告 → 体验课 → 体验小结 → 半年计划 → 月考专项练`。
 > 所有引用的数字都标了出处（见文末），可核。
 
 ---
